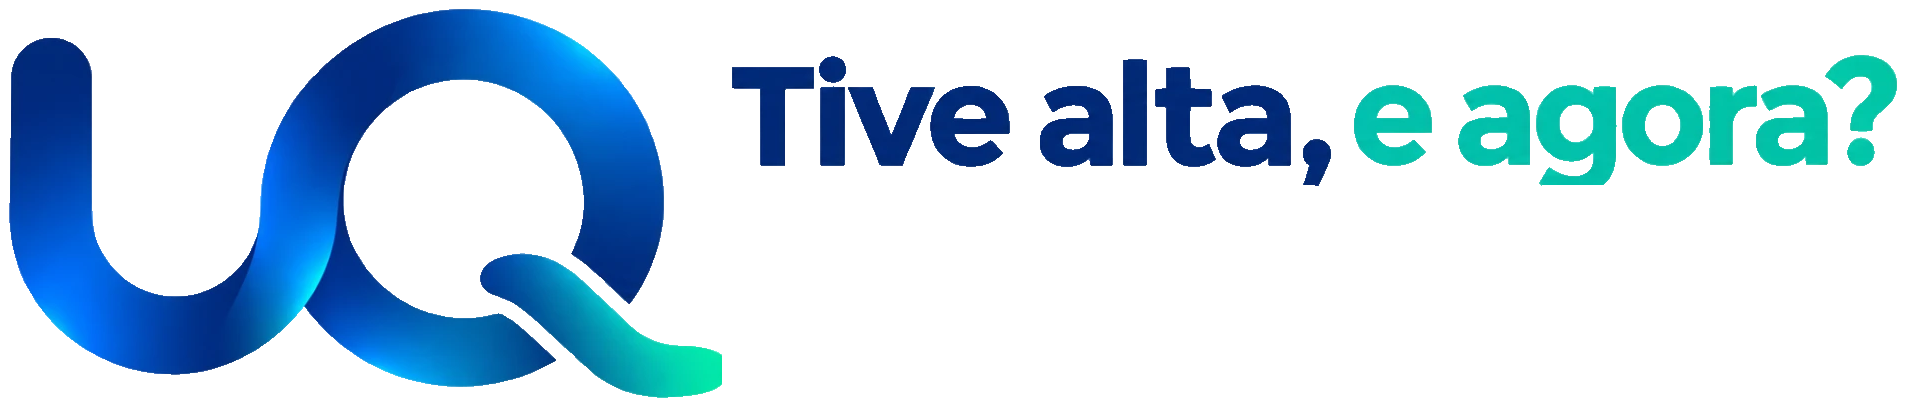
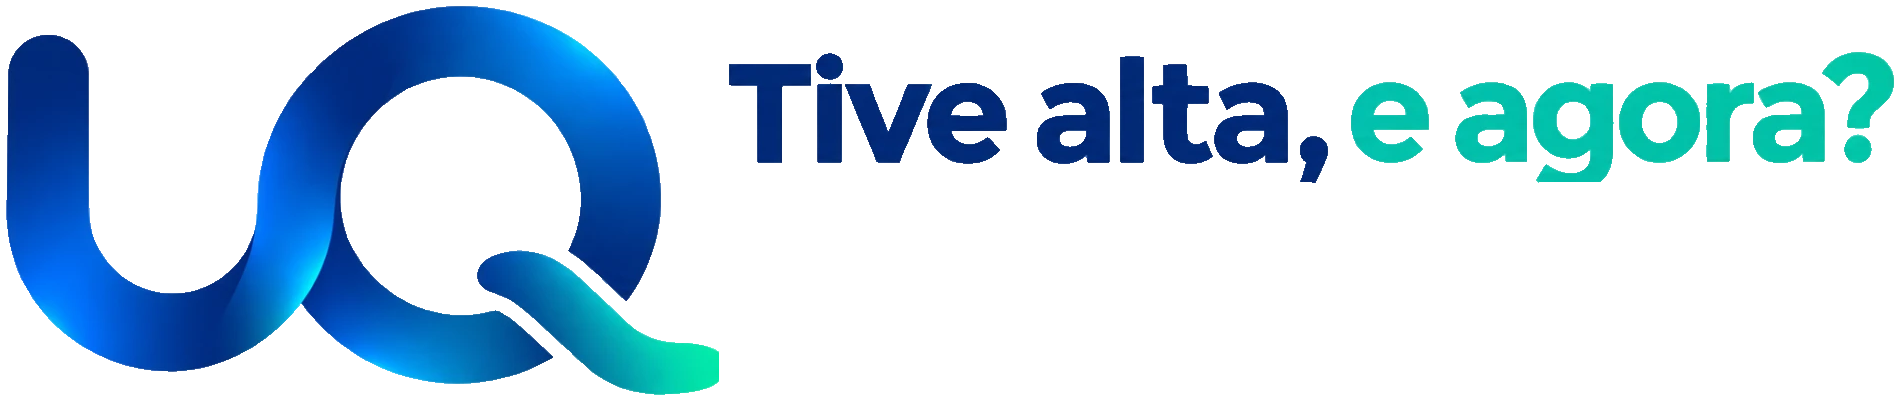
Reduz a espessura do contorno branco do logotipo
O contorno anterior tornava as letras dificeis de ler, sobretudo no
cabecalho (tamanho pequeno). Reduz-se a espessura em ambas as versoes
(cabecalho e hero), mantida apenas o suficiente para separar o azul
escuro do texto do azul escuro do fundo do site.

diff --git a/index.html b/index.html
@@ -6,7 +6,7 @@
 <title>Tive alta, e agora? — Seguimento pós-alta, Unidade de Queimados</title>
 <meta name="description" content="Tive alta, e agora? é a plataforma de seguimento pós-alta da Unidade de Queimados: jornada de recuperação, PROMs e dashboard clínico.">
 <link rel="icon" type="image/png" href="assets/img/tivealta-logo-icon.png">
-<link rel="stylesheet" href="assets/css/styles.css?v=202609303">
+<link rel="stylesheet" href="assets/css/styles.css?v=202609304">
 </head>
 <body>
 <a class="skip-link" href="#conteudo">Saltar para o conteúdo</a>
@@ -191,7 +191,7 @@
 <script src="assets/js/vendor/supabase.js"></script>
 <script src="assets/js/supabase-config.js"></script>
 <script src="assets/js/supabase-client.js"></script>
-<script src="assets/js/main.js?v=202609303"></script>
+<script src="assets/js/main.js?v=202609304"></script>
 <script>
   function mudarAuthTab(nome){
     document.querySelectorAll(".auth-tab").forEach(t => t.classList.toggle("active", t.dataset.tab === nome));

diff --git a/area-doente/alta-seguimento.html b/area-doente/alta-seguimento.html
@@ -5,7 +5,7 @@
 <meta name="viewport" content="width=device-width, initial-scale=1.0">
 <title>Alta do acompanhamento — Tive alta, e agora?</title>
 <link rel="icon" type="image/png" href="../assets/img/tivealta-logo-icon.png">
-<link rel="stylesheet" href="../assets/css/styles.css?v=202609303">
+<link rel="stylesheet" href="../assets/css/styles.css?v=202609304">
 <style>
   .destaque{ border-left:4px solid var(--flame-deep); padding:18px 22px; background:#fff;
              border-radius:var(--radius-lg); margin-bottom:20px; }
@@ -65,7 +65,7 @@
 <script src="../assets/js/vendor/supabase.js"></script>
 <script src="../assets/js/supabase-config.js"></script>
 <script src="../assets/js/supabase-client.js"></script>
-<script src="../assets/js/main.js?v=202609303"></script>
+<script src="../assets/js/main.js?v=202609304"></script>
 <script>
   /* O doente recebe o documento que foi escrito para ele, e não o relatório
      clínico inteiro. O que a equipa escreveu no quadro 7 vem primeiro e em

diff --git a/area-profissional/consulta.html b/area-profissional/consulta.html
@@ -5,7 +5,7 @@
 <meta name="viewport" content="width=device-width, initial-scale=1.0">
 <title>Registo de consulta — Tive alta, e agora?</title>
 <link rel="icon" type="image/png" href="../assets/img/tivealta-logo-icon.png">
-<link rel="stylesheet" href="../assets/css/styles.css?v=202609303">
+<link rel="stylesheet" href="../assets/css/styles.css?v=202609304">
 <style>
   .prom-linha{ border:1px solid var(--line); border-radius:var(--radius); padding:14px 16px; margin-bottom:12px; }
   .prom-linha.alterado{ border-color:var(--flame-deep); background:var(--flame-mist); }
@@ -329,7 +329,7 @@
 <script src="../assets/js/vendor/supabase.js"></script>
 <script src="../assets/js/supabase-config.js"></script>
 <script src="../assets/js/supabase-client.js"></script>
-<script src="../assets/js/main.js?v=202609303"></script>
+<script src="../assets/js/main.js?v=202609304"></script>
 <script>
   let DOENTE = null;
   let CONSULTA = null;        // linha em consultas, quando já existe

diff --git a/area-doente/consulta.html b/area-doente/consulta.html
@@ -5,7 +5,7 @@
 <meta name="viewport" content="width=device-width, initial-scale=1.0">
 <title>Consulta — Tive alta, e agora?</title>
 <link rel="icon" type="image/png" href="../assets/img/tivealta-logo-icon.png">
-<link rel="stylesheet" href="../assets/css/styles.css?v=202609303">
+<link rel="stylesheet" href="../assets/css/styles.css?v=202609304">
 <style>
   .bloco{ margin-bottom:26px; }
   .bloco h2{ font-family:var(--f-body); font-size:1.05rem; font-weight:600; color:var(--blue-deep);
@@ -64,7 +64,7 @@
 <script src="../assets/js/vendor/supabase.js"></script>
 <script src="../assets/js/supabase-config.js"></script>
 <script src="../assets/js/supabase-client.js"></script>
-<script src="../assets/js/main.js?v=202609303"></script>
+<script src="../assets/js/main.js?v=202609304"></script>
 <script>
   /* A vista do doente gera-se a partir do que ficou gravado, e não de uma
      segunda cópia do formulário. Assim não há forma de as duas divergirem:

diff --git a/area-doente/recursos.html b/area-doente/recursos.html
@@ -5,7 +5,7 @@
 <meta name="viewport" content="width=device-width, initial-scale=1.0">
 <title>Recursos — Tive alta, e agora?</title>
 <link rel="icon" type="image/png" href="../assets/img/tivealta-logo-icon.png">
-<link rel="stylesheet" href="../assets/css/styles.css?v=202609303">
+<link rel="stylesheet" href="../assets/css/styles.css?v=202609304">
 <style>
   /* Avaliação (👍/👎) de cada recurso — não existe em styles.css, por isso
      reutilizam-se aqui as mesmas variáveis de cor do resto do site. */
@@ -368,7 +368,7 @@
 <script src="../assets/js/vendor/supabase.js"></script>
 <script src="../assets/js/supabase-config.js"></script>
 <script src="../assets/js/supabase-client.js"></script>
-<script src="../assets/js/main.js?v=202609303"></script>
+<script src="../assets/js/main.js?v=202609304"></script>
 <script>
   let DOENTE_ID = null;
   let AVALIACOES = {}; // recurso_id -> true (👍) | false (👎)

diff --git a/area-profissional/alta-seguimento.html b/area-profissional/alta-seguimento.html
@@ -5,7 +5,7 @@
 <meta name="viewport" content="width=device-width, initial-scale=1.0">
 <title>Alta do seguimento — Tive alta, e agora?</title>
 <link rel="icon" type="image/png" href="../assets/img/tivealta-logo-icon.png">
-<link rel="stylesheet" href="../assets/css/styles.css?v=202609303">
+<link rel="stylesheet" href="../assets/css/styles.css?v=202609304">
 <style>
   .calculado{ background:var(--paper-tint); border:1px solid var(--line); border-radius:var(--radius); padding:14px 16px; margin-bottom:16px; }
   .calculado .eyebrow{ margin-bottom:8px; }
@@ -252,7 +252,7 @@
 <script src="../assets/js/vendor/supabase.js"></script>
 <script src="../assets/js/supabase-config.js"></script>
 <script src="../assets/js/supabase-client.js"></script>
-<script src="../assets/js/main.js?v=202609303"></script>
+<script src="../assets/js/main.js?v=202609304"></script>
 <script>
   let DOENTE = null;
   let ALTA = null;

diff --git a/area-doente/consultas.html b/area-doente/consultas.html
@@ -5,7 +5,7 @@
 <meta name="viewport" content="width=device-width, initial-scale=1.0">
 <title>Consultas — Tive alta, e agora?</title>
 <link rel="icon" type="image/png" href="../assets/img/tivealta-logo-icon.png">
-<link rel="stylesheet" href="../assets/css/styles.css?v=202609303">
+<link rel="stylesheet" href="../assets/css/styles.css?v=202609304">
 <style>
   .consulta-cartao{ border:1px solid var(--line); border-radius:var(--radius-lg); padding:20px 22px; margin-bottom:14px; background:#fff; }
   .consulta-cartao.proxima{ border-left:4px solid var(--flame-deep); }
@@ -76,7 +76,7 @@
 <script src="../assets/js/vendor/supabase.js"></script>
 <script src="../assets/js/supabase-config.js"></script>
 <script src="../assets/js/supabase-client.js"></script>
-<script src="../assets/js/main.js?v=202609303"></script>
+<script src="../assets/js/main.js?v=202609304"></script>
 <script>
   let DOENTE_ID = null;
 

diff --git a/area-doente/formulario-alta.html b/area-doente/formulario-alta.html
@@ -5,7 +5,7 @@
 <meta name="viewport" content="width=device-width, initial-scale=1.0">
 <title>Formulário de Alta Hospitalar — Tive alta, e agora?</title>
 <link rel="icon" type="image/png" href="../assets/img/tivealta-logo-icon.png">
-<link rel="stylesheet" href="../assets/css/styles.css?v=202609303">
+<link rel="stylesheet" href="../assets/css/styles.css?v=202609304">
 <style>
   /* Vista só de leitura: pares campo/valor, sem controlos de formulário.
      As regras antigas — que reativavam a opacidade de campos desativados —
@@ -102,7 +102,7 @@
 <script src="../assets/js/vendor/supabase.js"></script>
 <script src="../assets/js/supabase-config.js"></script>
 <script src="../assets/js/supabase-client.js"></script>
-<script src="../assets/js/main.js?v=202609303"></script>
+<script src="../assets/js/main.js?v=202609304"></script>
 <script>
   let DOENTE_ID = null;
 

diff --git a/area-doente/historico.html b/area-doente/historico.html
@@ -5,7 +5,7 @@
 <meta name="viewport" content="width=device-width, initial-scale=1.0">
 <title>Histórico e Agendamentos — Tive alta, e agora?</title>
 <link rel="icon" type="image/png" href="../assets/img/tivealta-logo-icon.png">
-<link rel="stylesheet" href="../assets/css/styles.css?v=202609303">
+<link rel="stylesheet" href="../assets/css/styles.css?v=202609304">
 <style>
   /* styles.css só estiliza input[type=text|email|password|tel] e textarea;
      esta página usa também select, date e datetime-local — reutilizam-se
@@ -204,7 +204,7 @@
 <script src="../assets/js/vendor/supabase.js"></script>
 <script src="../assets/js/supabase-config.js"></script>
 <script src="../assets/js/supabase-client.js"></script>
-<script src="../assets/js/main.js?v=202609303"></script>
+<script src="../assets/js/main.js?v=202609304"></script>
 <script>
   let DOENTE_ID = null;
 

diff --git a/area-profissional/consultas.html b/area-profissional/consultas.html
@@ -5,7 +5,7 @@
 <meta name="viewport" content="width=device-width, initial-scale=1.0">
 <title>Consultas — Tive alta, e agora?</title>
 <link rel="icon" type="image/png" href="../assets/img/tivealta-logo-icon.png">
-<link rel="stylesheet" href="../assets/css/styles.css?v=202609303">
+<link rel="stylesheet" href="../assets/css/styles.css?v=202609304">
 <style>
   .linha-marcacao{ display:flex; gap:14px; align-items:flex-start; padding:16px 0; border-bottom:1px solid var(--line); }
   .linha-marcacao:last-child{ border-bottom:none; }
@@ -172,7 +172,7 @@
 <script src="../assets/js/vendor/supabase.js"></script>
 <script src="../assets/js/supabase-config.js"></script>
 <script src="../assets/js/supabase-client.js"></script>
-<script src="../assets/js/main.js?v=202609303"></script>
+<script src="../assets/js/main.js?v=202609304"></script>
 <script>
   let DOENTE = null;
 

diff --git a/area-doente/jornada.html b/area-doente/jornada.html
@@ -5,7 +5,7 @@
 <meta name="viewport" content="width=device-width, initial-scale=1.0">
 <title>A minha jornada — Tive alta, e agora?</title>
 <link rel="icon" type="image/png" href="../assets/img/tivealta-logo-icon.png">
-<link rel="stylesheet" href="../assets/css/styles.css?v=202609303">
+<link rel="stylesheet" href="../assets/css/styles.css?v=202609304">
 </head>
 <body class="page-tint">
 <header class="topbar">
@@ -93,7 +93,7 @@
 <script src="../assets/js/vendor/supabase.js"></script>
 <script src="../assets/js/supabase-config.js"></script>
 <script src="../assets/js/supabase-client.js"></script>
-<script src="../assets/js/main.js?v=202609303"></script>
+<script src="../assets/js/main.js?v=202609304"></script>
 <script>
   let DOENTE_ID = null;
   const arquivosReais = {}; // guarda o File real (não a pré-visualização) por meta.id, até ser gravado

diff --git a/area-profissional/novo-doente.html b/area-profissional/novo-doente.html
@@ -5,7 +5,7 @@
 <meta name="viewport" content="width=device-width, initial-scale=1.0">
 <title>Novo Doente — Tive alta, e agora?</title>
 <link rel="icon" type="image/png" href="../assets/img/tivealta-logo-icon.png">
-<link rel="stylesheet" href="../assets/css/styles.css?v=202609303">
+<link rel="stylesheet" href="../assets/css/styles.css?v=202609304">
 </head>
 <body>
 <header class="topbar">
@@ -197,7 +197,7 @@
 <script src="../assets/js/vendor/supabase.js"></script>
 <script src="../assets/js/supabase-config.js"></script>
 <script src="../assets/js/supabase-client.js"></script>
-<script src="../assets/js/main.js?v=202609303"></script>
+<script src="../assets/js/main.js?v=202609304"></script>
 <script>
   function mudarTitular(tipo){
     document.getElementById('campo-familiar').style.display = (tipo === 'familiar') ? 'block' : 'none';
